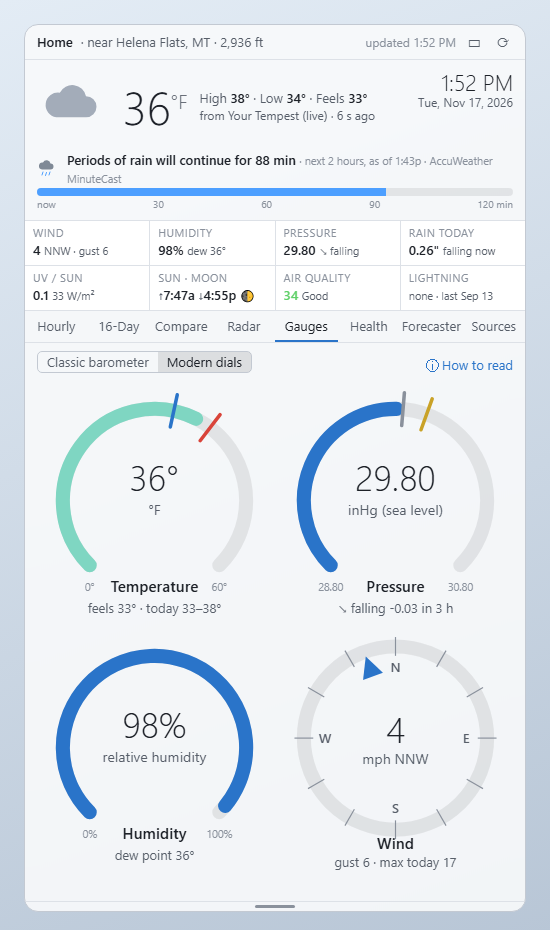
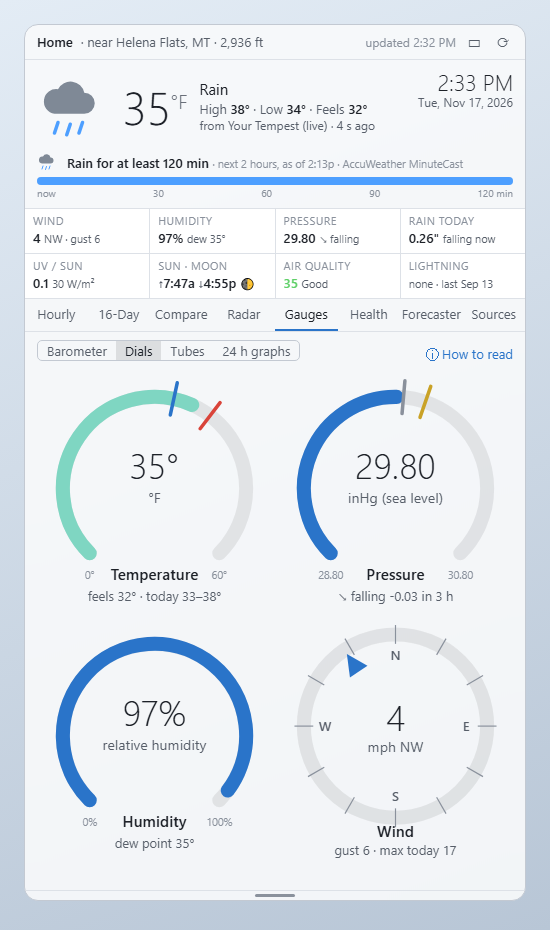
Gauges: size the Dials to the tab like the other styles

diff --git a/panel.html b/panel.html
@@ -911,7 +911,9 @@ function renderGauges() {
   } else {
     const p = n.pressure ? +n.pressure : null, ch3 = p != null && g.p_3h != null ? p - g.p_3h : null;
     const tlo = Math.min(0, Math.floor(((g.t_today?.lo ?? n.temp ?? 30) - 10) / 10) * 10), thi = Math.max(tlo + 60, Math.ceil(((g.t_today?.hi ?? n.temp ?? 60) + 10) / 10) * 10);
-    body = `<div class="dials">
+    // two rows of dials sized to the tab, like the other styles (each dial is 200 x 205)
+    const cell = Math.max(140, Math.min(innerW() / 2 - 3, (tabH - 50) / 2 * 200 / 205));
+    body = `<div class="dials" style="max-width:${Math.round(cell * 2 + 6)}px;margin:0 auto">
       ${arcDial({ title: "Temperature", value: n.temp, min: tlo, max: thi, fmt: v => Math.round(v) + "°", unit: "°F", color: tempColor(n.temp),
         marks: g.t_today ? [{ v: g.t_today.lo, c: "#2a74c9", t: `Today's low ${f0(g.t_today.lo)}°F` }, { v: g.t_today.hi, c: "#d9443a", t: `Today's high ${f0(g.t_today.hi)}°F` }] : [],
         sub: `feels ${f0(n.feels)}°${g.t_today ? ` · today ${f0(g.t_today.lo)}–${f0(g.t_today.hi)}°` : ""}`, tip: `Temperature ${f0(n.temp)}°F, feels like ${f0(n.feels)}°F` })}
